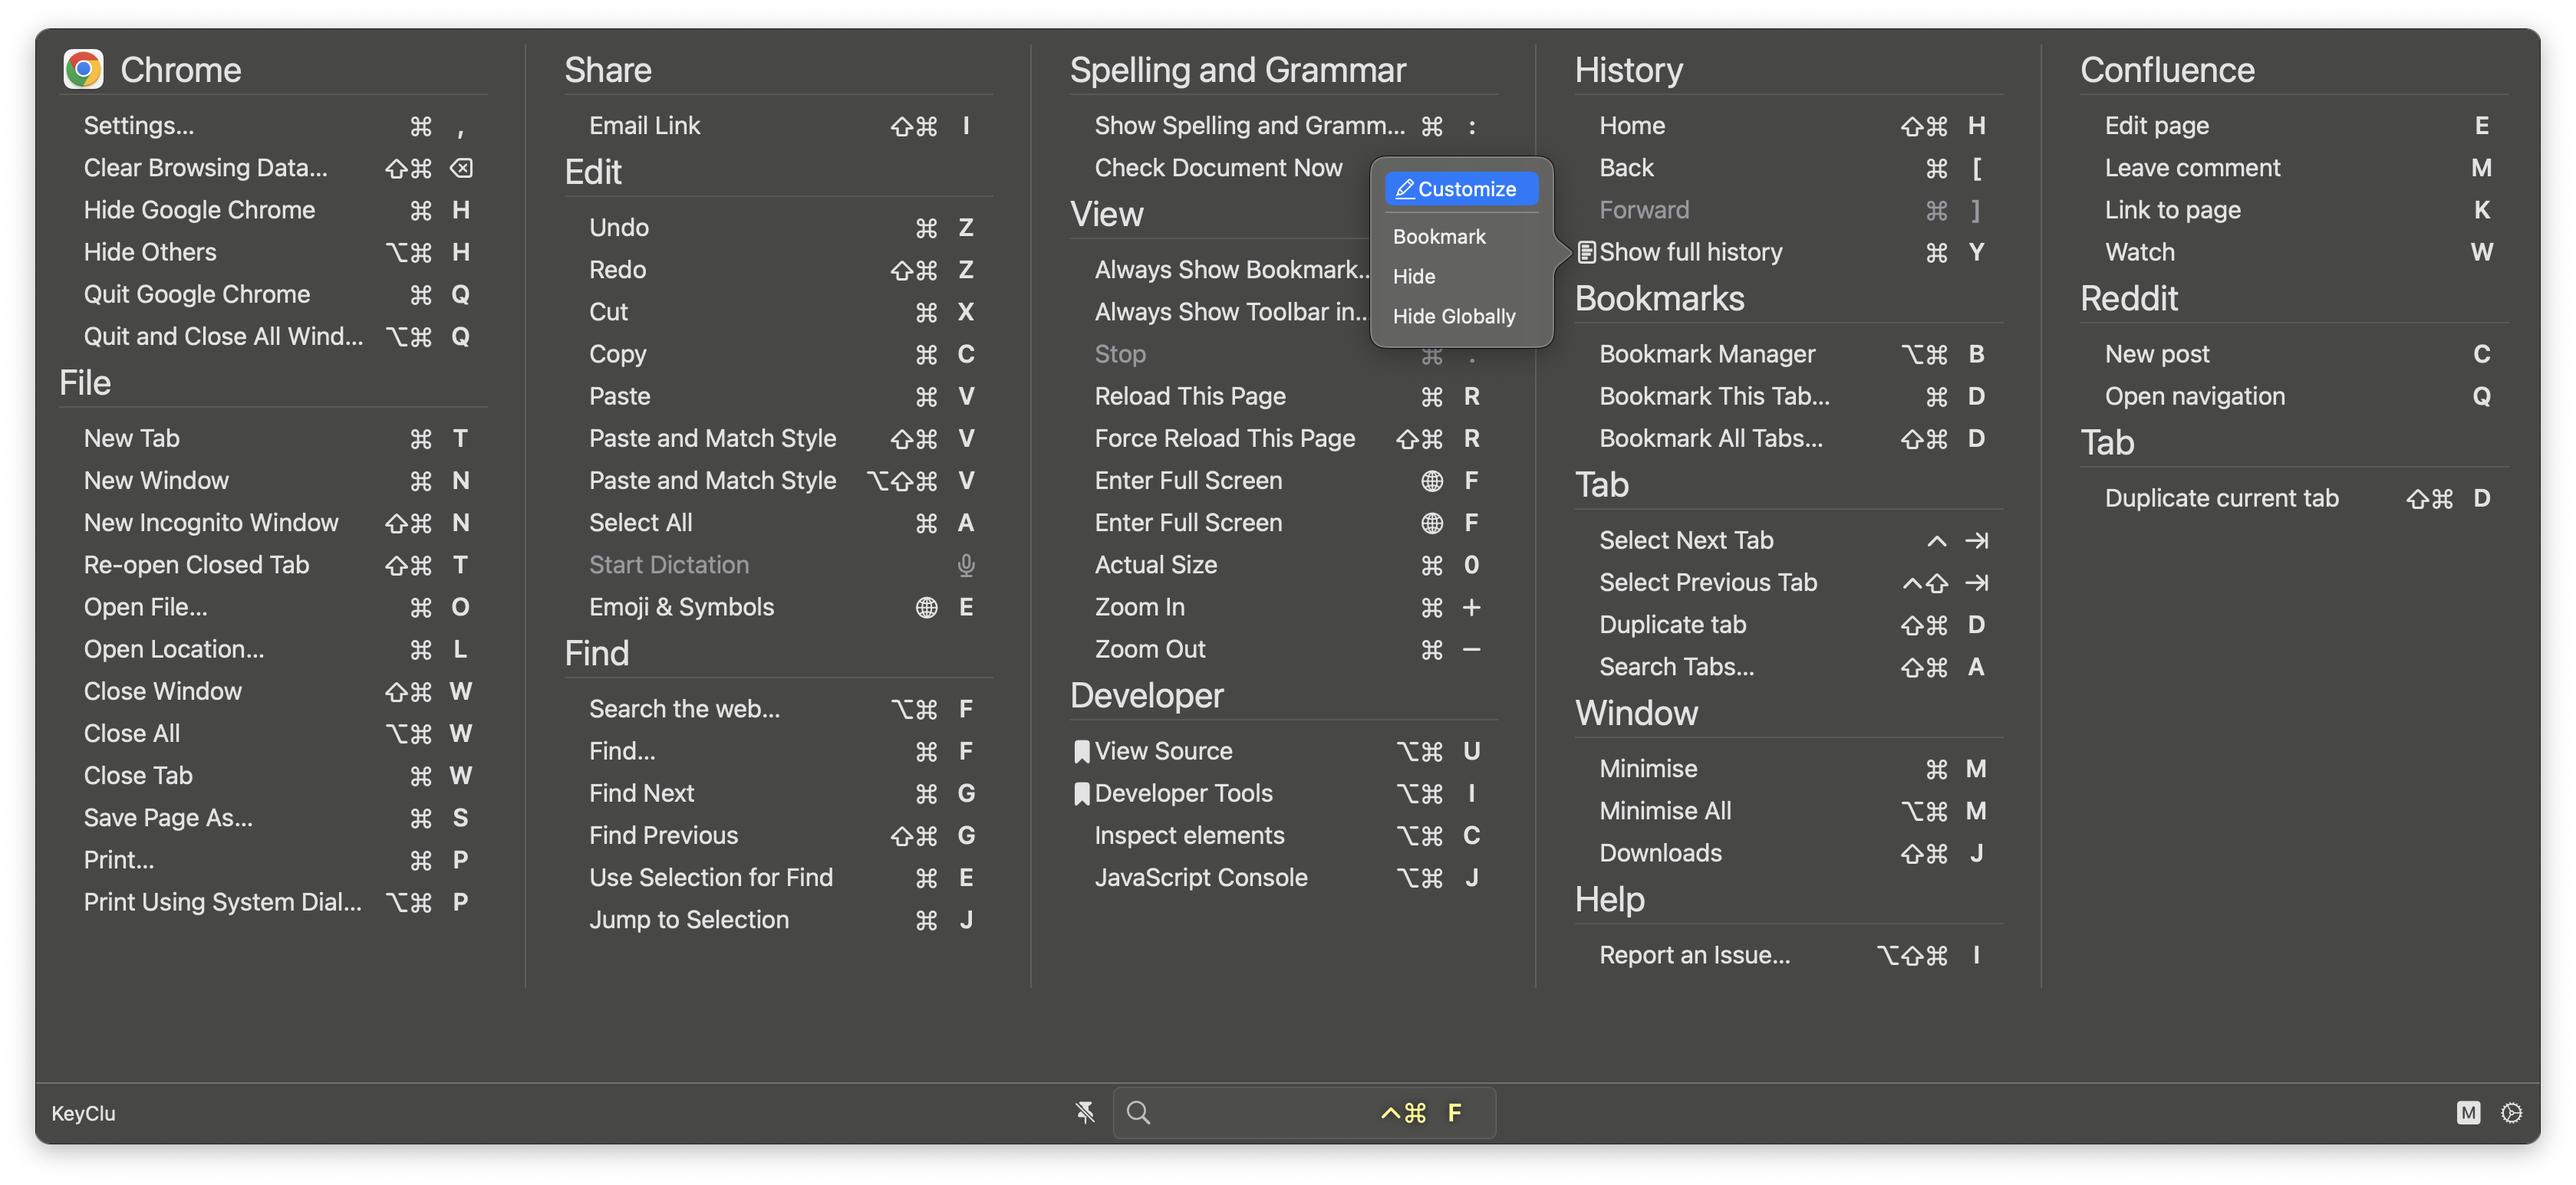
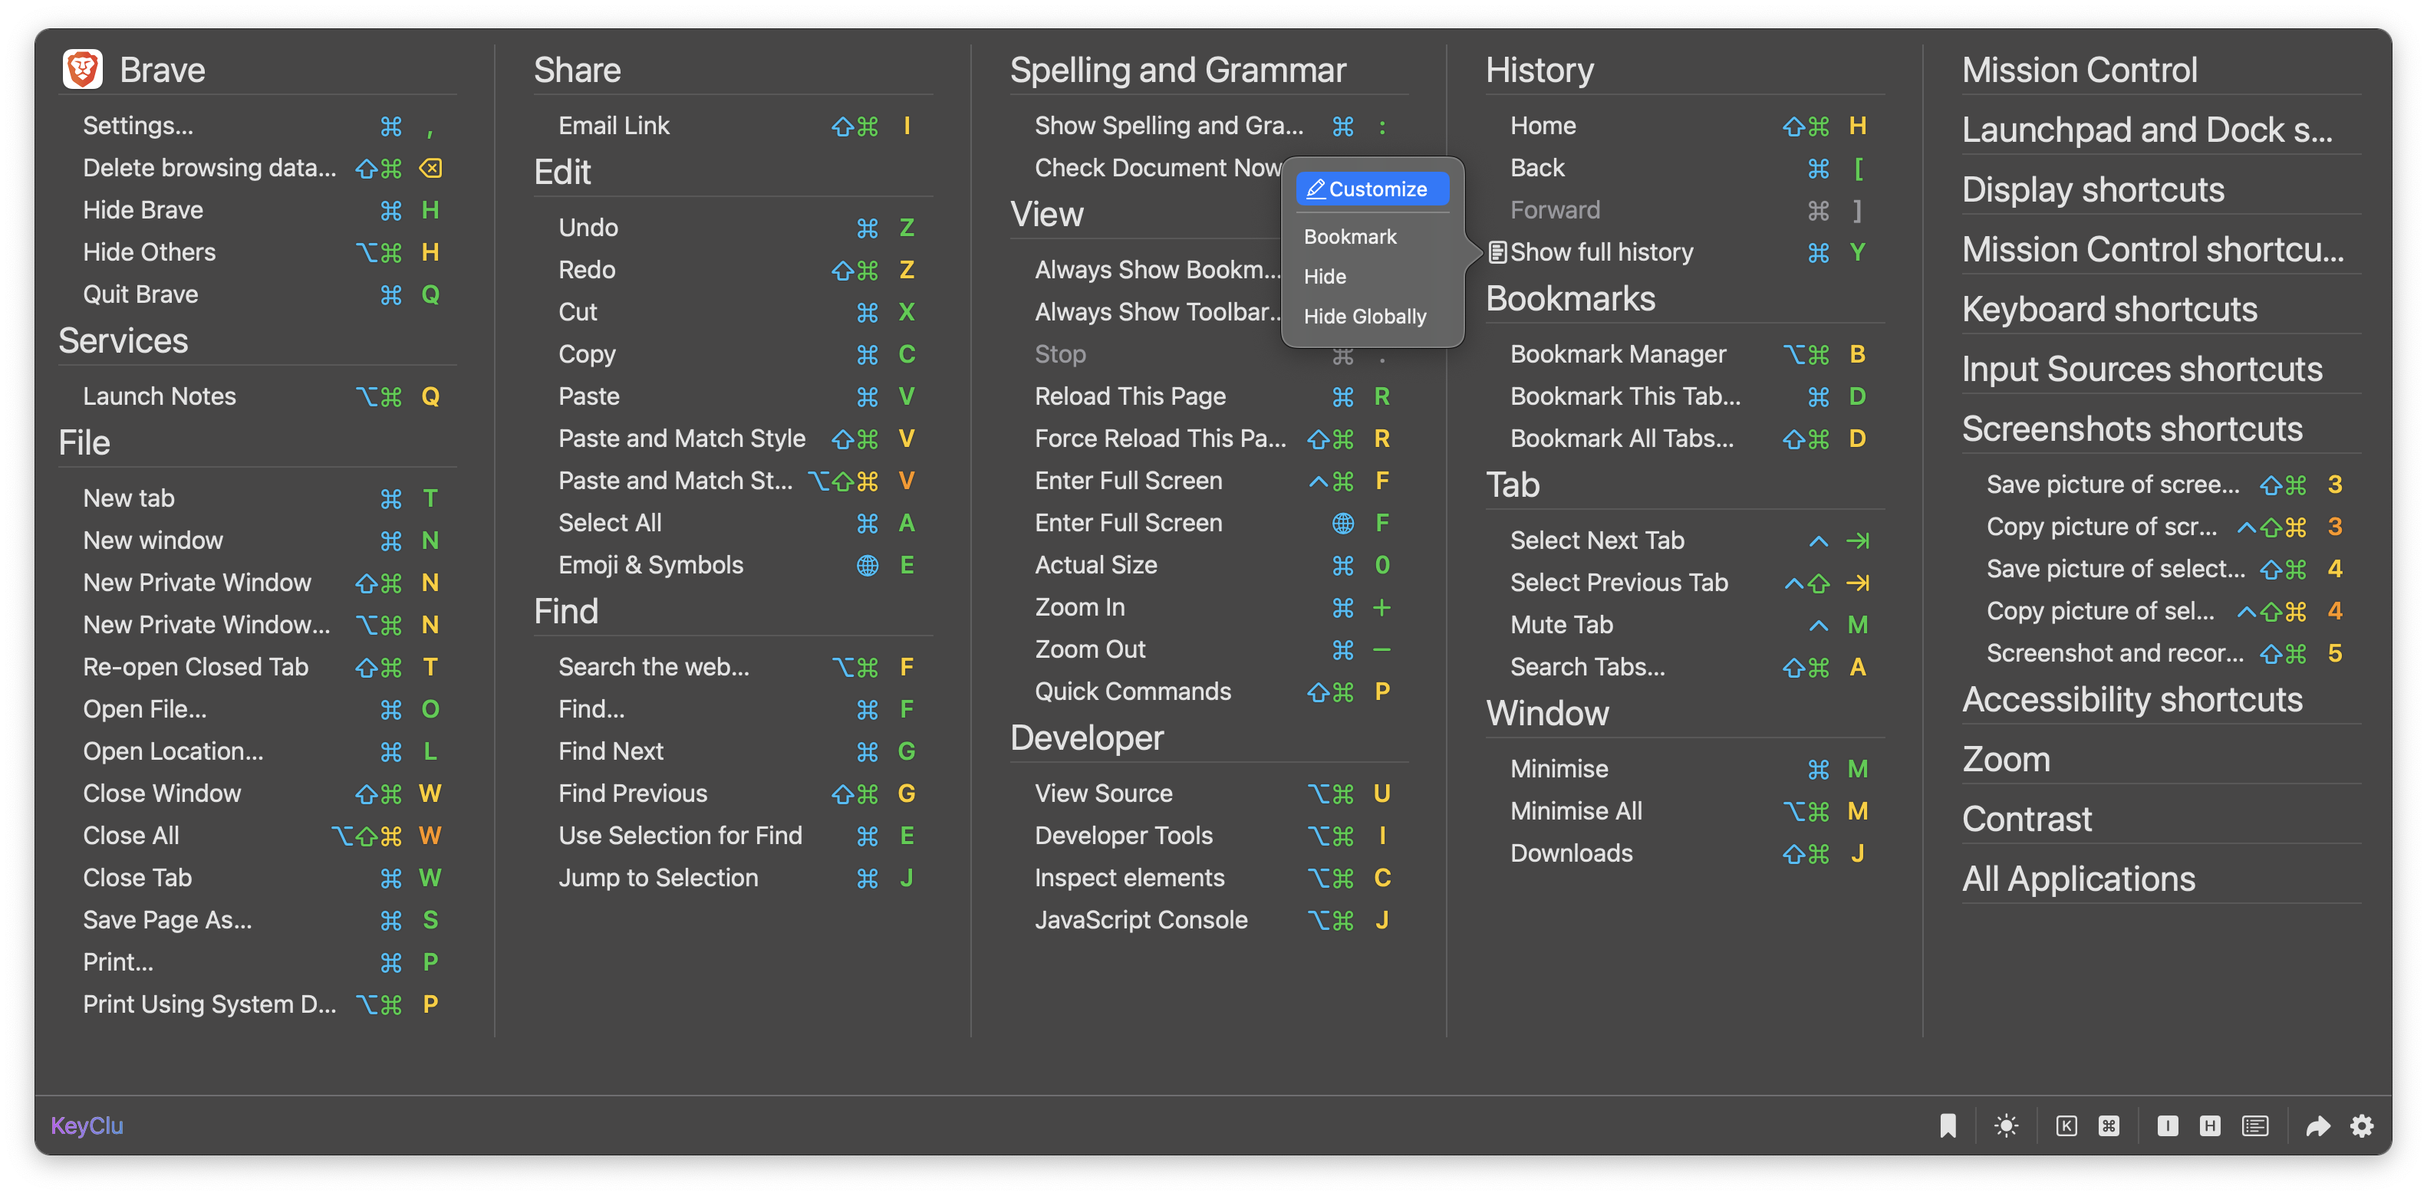
v0.31 update

diff --git a/readme.md b/readme.md
@@ -44,8 +44,10 @@ A few of the things you can do with KeyClu:
 * Bookmark shortcuts
 * Hide known shortcuts
 * List own & skhd shortcuts
-* Collapsible groups of shortcuts
+* Collapsible groups (menu) of shortcuts
 * Export App's shortcuts to markdown file
+* Display macOS hotkeys
+* Display skhd hotkeys
 
 ## Integrations
 * [CustomShortcuts](https://www.houdah.com/customShortcuts/) to customize shortcuts
@@ -82,5 +84,3 @@ This software uses the following open source packages:
 
 ## Support
 If you ❤ the KeyClu and found it useful for your tasks, be sure to ⭐ it and maybe support me with caffeine.
-
-
